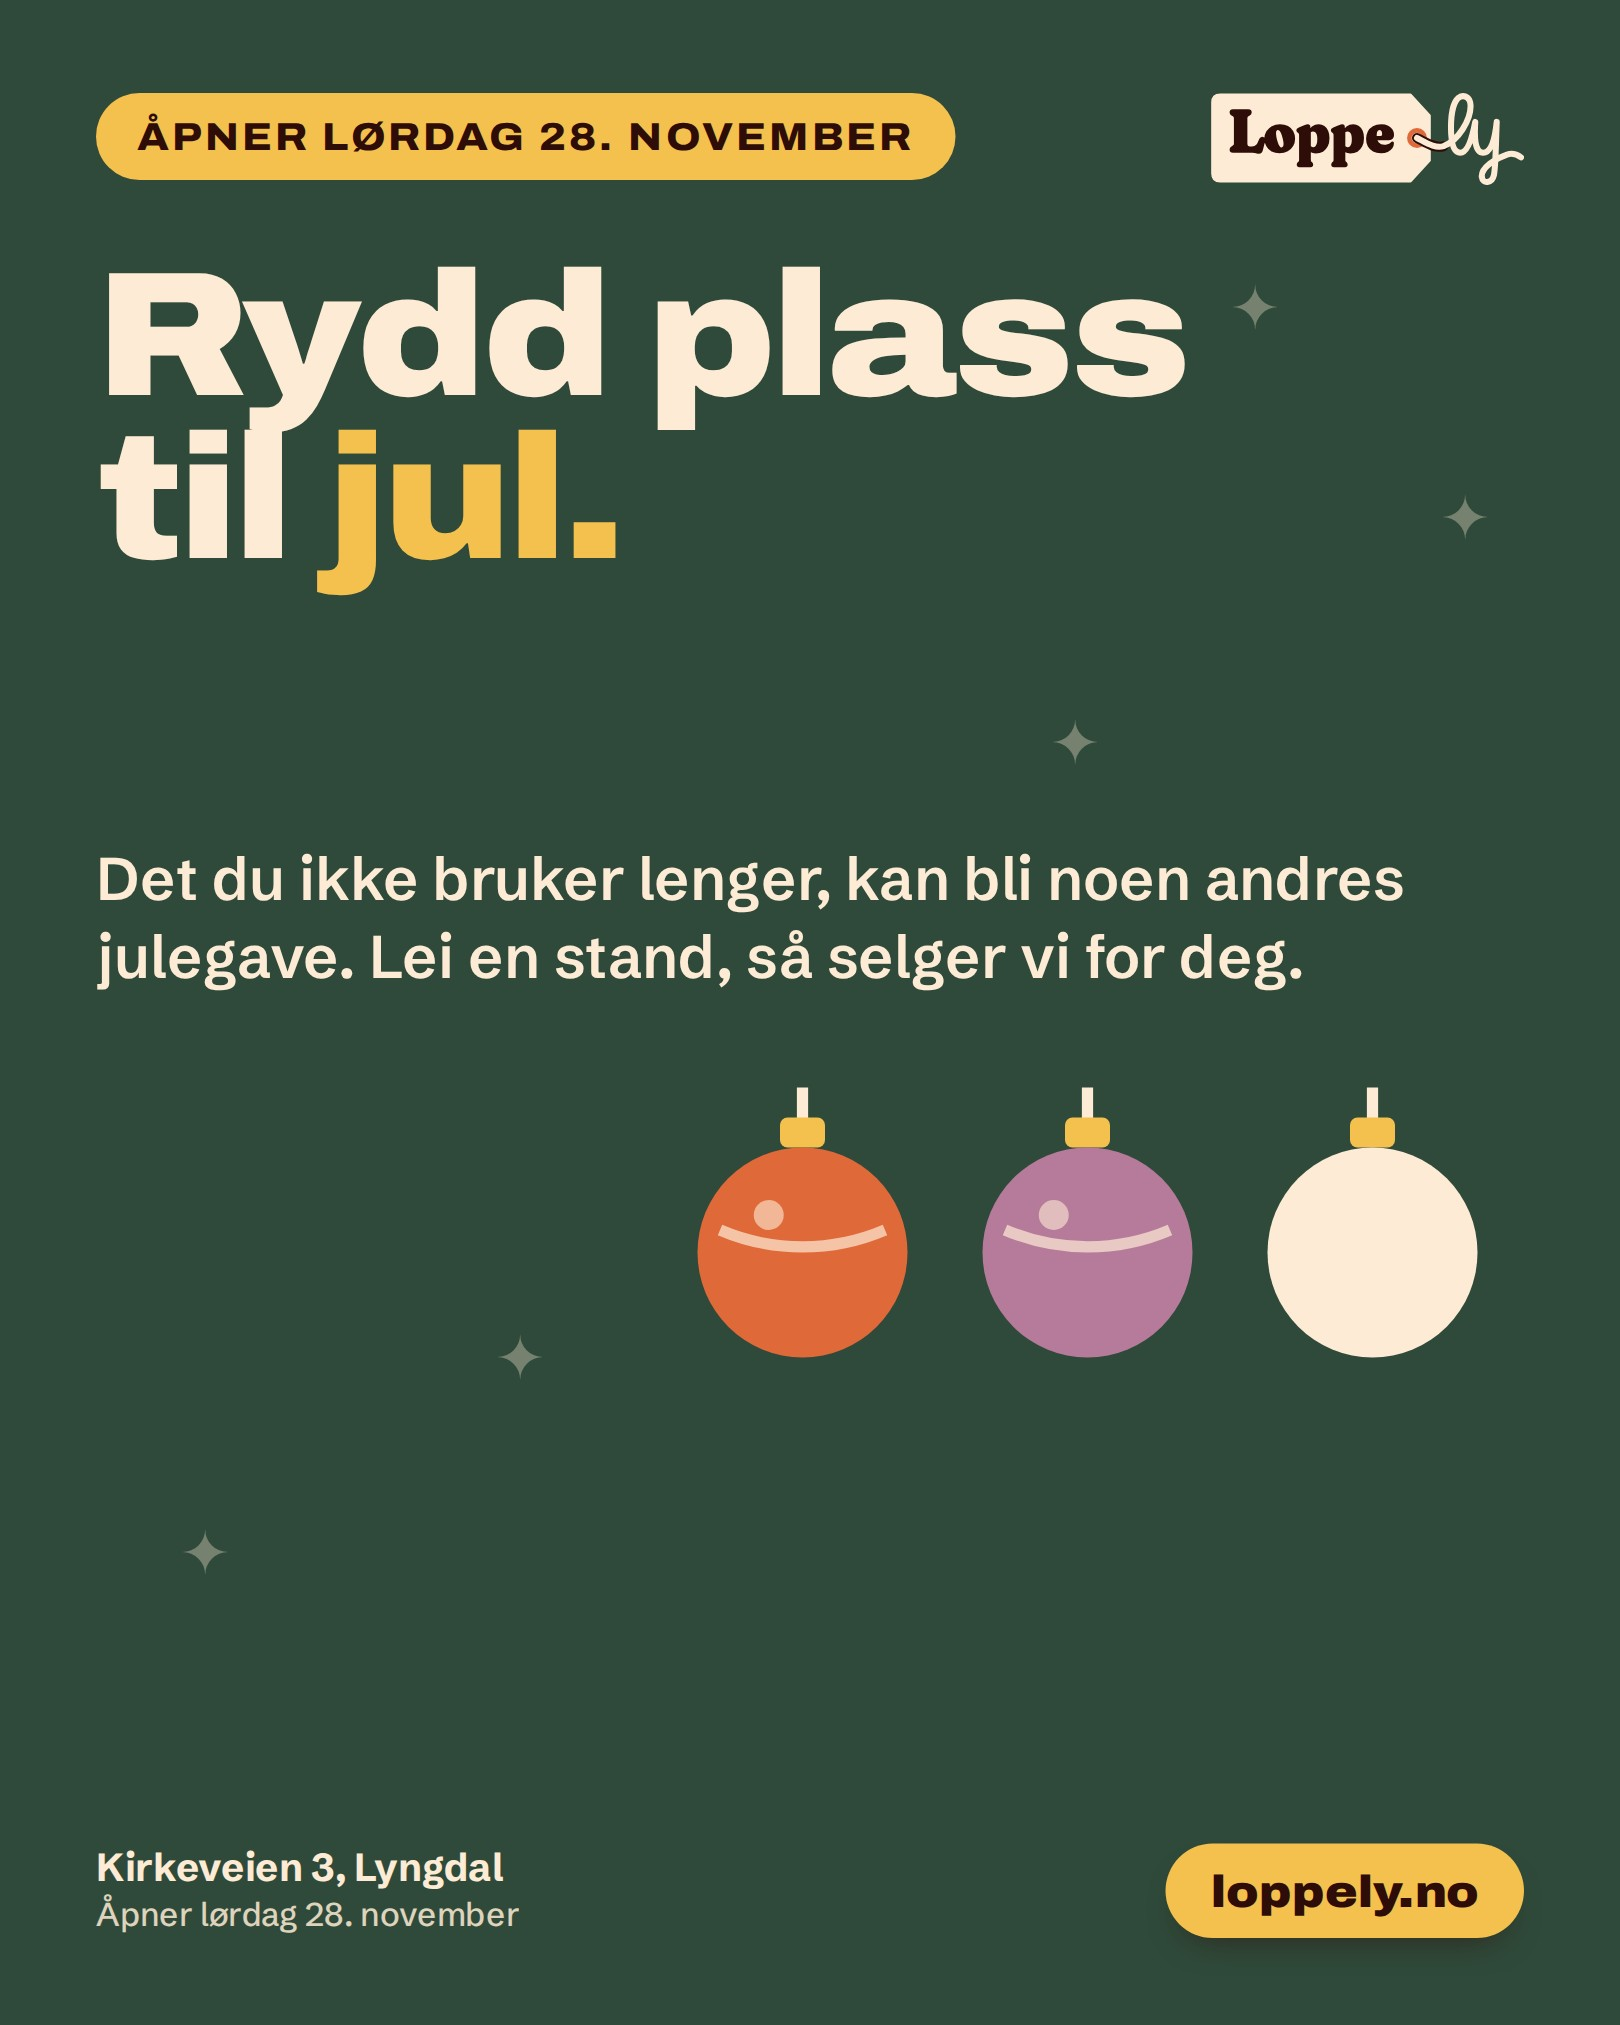
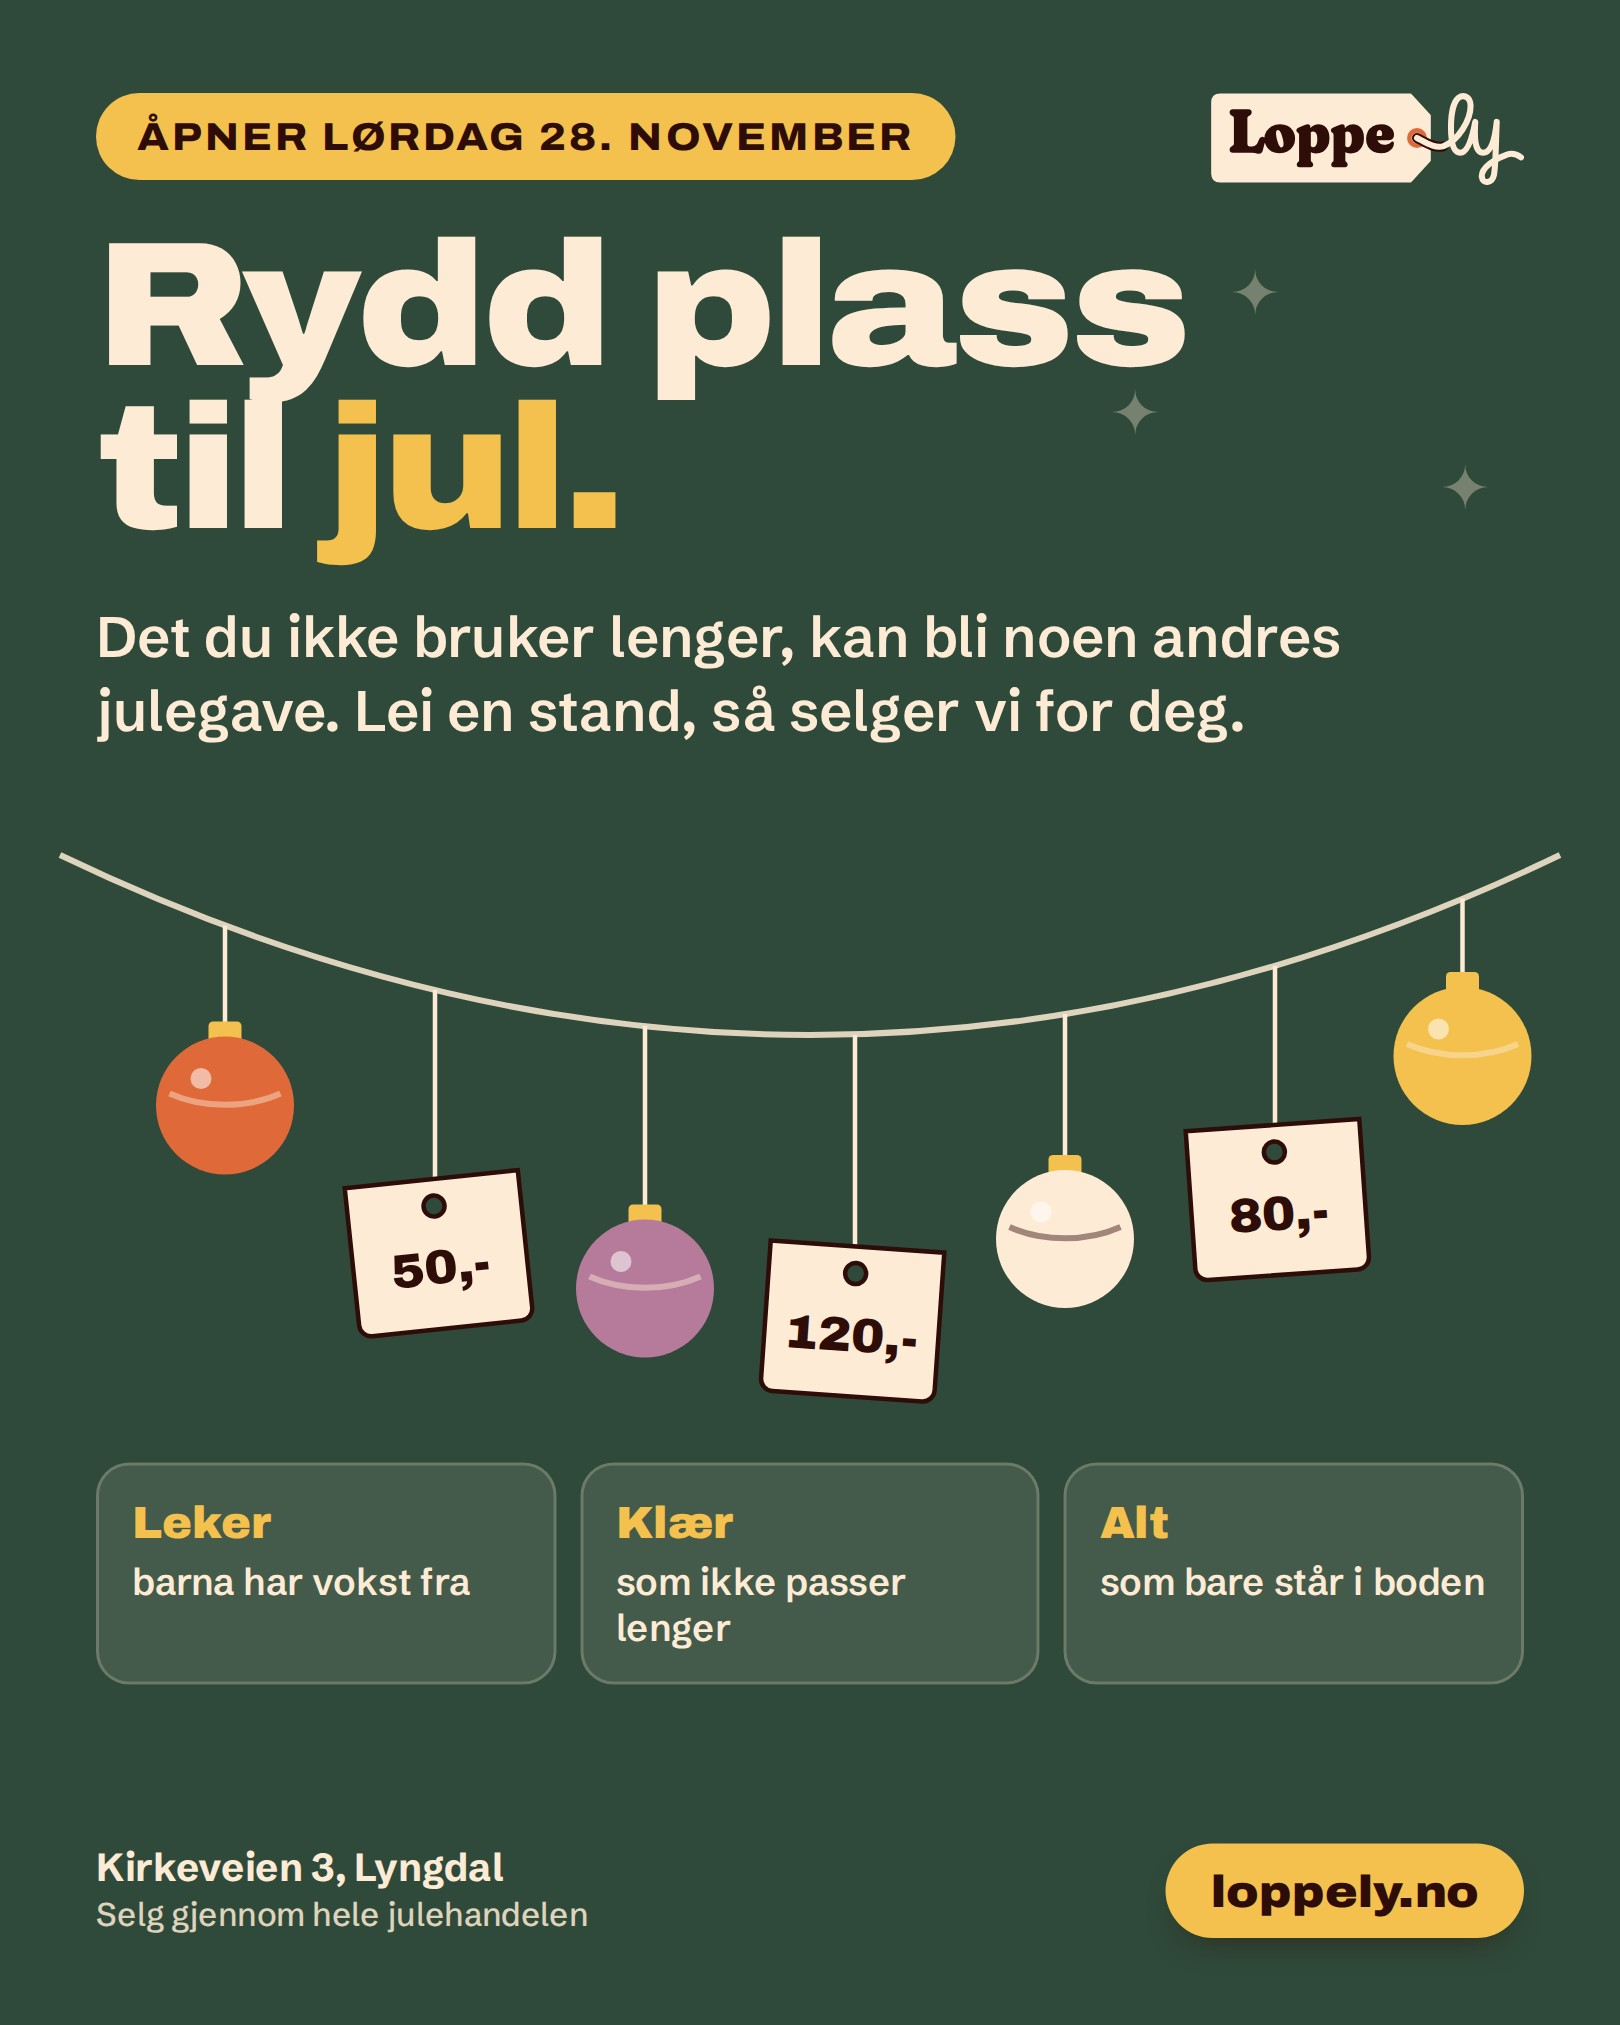
ads: fuller Christmas post (garland of baubles and price tags); cache-busting image links
Claude-Session: https://claude.ai/code/session_01RRhAi942qst8ZUNjrS2TNS

diff --git a/ads/index.html b/ads/index.html
@@ -47,7 +47,7 @@ footer a{color:inherit}
   </div>
   <div class="grid">
   <article class="card" id="01-konsept">
-    <a class="img" href="01-konsept.jpg" target="_blank"><img src="01-konsept.jpg" width="1620" height="2025" loading="lazy" alt="Konseptet på ett bilde"></a>
+    <a class="img" href="01-konsept.jpg?v=09291022" target="_blank"><img src="01-konsept.jpg?v=09291022" width="1620" height="2025" loading="lazy" alt="Konseptet på ett bilde"></a>
     <div class="body">
       <h2>Konseptet på ett bilde</h2>
       <p class="when">Første innlegg. Fest det øverst på siden.</p>
@@ -58,11 +58,11 @@ Loppely er et nytt loppesupermarked i Kirkeveien 3 i Lyngdal. Du leier en stand,
 Vi åpner lørdag 28. november.
 
 Les mer og meld interesse på loppely.no</pre>
-      <div class="btns"><button class="btn copy" type="button">Kopier tekst</button><a class="btn ghost" href="01-konsept.jpg" download>Last ned bilde</a></div>
+      <div class="btns"><button class="btn copy" type="button">Kopier tekst</button><a class="btn ghost" href="01-konsept.jpg?v=09291022" download>Last ned bilde</a></div>
     </div>
   </article>
   <article class="card" id="02-slik-funker-det">
-    <a class="img" href="02-slik-funker-det.jpg" target="_blank"><img src="02-slik-funker-det.jpg" width="1620" height="2025" loading="lazy" alt="Slik funker det"></a>
+    <a class="img" href="02-slik-funker-det.jpg?v=09291022" target="_blank"><img src="02-slik-funker-det.jpg?v=09291022" width="1620" height="2025" loading="lazy" alt="Slik funker det"></a>
     <div class="body">
       <h2>Slik funker det</h2>
       <p class="when">Uke 1. Forklarer konseptet steg for steg.</p>
@@ -77,11 +77,11 @@ Du trenger ikke stå der selv. Følg salget på «Min side».
 
 Åpner lørdag 28. november i Kirkeveien 3, Lyngdal.
 loppely.no</pre>
-      <div class="btns"><button class="btn copy" type="button">Kopier tekst</button><a class="btn ghost" href="02-slik-funker-det.jpg" download>Last ned bilde</a></div>
+      <div class="btns"><button class="btn copy" type="button">Kopier tekst</button><a class="btn ghost" href="02-slik-funker-det.jpg?v=09291022" download>Last ned bilde</a></div>
     </div>
   </article>
   <article class="card" id="03-her-er-vi">
-    <a class="img" href="03-her-er-vi.jpg" target="_blank"><img src="03-her-er-vi.jpg" width="1620" height="2025" loading="lazy" alt="Her finner du oss"></a>
+    <a class="img" href="03-her-er-vi.jpg?v=09291022" target="_blank"><img src="03-her-er-vi.jpg?v=09291022" width="1620" height="2025" loading="lazy" alt="Her finner du oss"></a>
     <div class="body">
       <h2>Her finner du oss</h2>
       <p class="when">Uke 2, og igjen uka før åpning.</p>
@@ -93,11 +93,11 @@ Loppely ligger i Kirkeveien 3, midt i Lyngdal sentrum. Gå rett ned trappen, så
 Vi åpner lørdag 28. november.
 
 Veibeskrivelse på loppely.no</pre>
-      <div class="btns"><button class="btn copy" type="button">Kopier tekst</button><a class="btn ghost" href="03-her-er-vi.jpg" download>Last ned bilde</a></div>
+      <div class="btns"><button class="btn copy" type="button">Kopier tekst</button><a class="btn ghost" href="03-her-er-vi.jpg?v=09291022" download>Last ned bilde</a></div>
     </div>
   </article>
   <article class="card" id="04-priser">
-    <a class="img" href="04-priser.jpg" target="_blank"><img src="04-priser.jpg" width="1620" height="2025" loading="lazy" alt="Priser"></a>
+    <a class="img" href="04-priser.jpg?v=09291022" target="_blank"><img src="04-priser.jpg?v=09291022" width="1620" height="2025" loading="lazy" alt="Priser"></a>
     <div class="body">
       <h2>Priser</h2>
       <p class="when">Uke 2. Svarer på «hva koster det?».</p>
@@ -110,11 +110,11 @@ VIP: fra 349 kr per uke og 29% provisjon. Du leverer varene, vi gjør resten.
 Alle priser inkluderer mva. Laveste pris gjelder ved leie i 4 uker.
 
 Se alt på loppely.no</pre>
-      <div class="btns"><button class="btn copy" type="button">Kopier tekst</button><a class="btn ghost" href="04-priser.jpg" download>Last ned bilde</a></div>
+      <div class="btns"><button class="btn copy" type="button">Kopier tekst</button><a class="btn ghost" href="04-priser.jpg?v=09291022" download>Last ned bilde</a></div>
     </div>
   </article>
   <article class="card" id="05-utbetalt">
-    <a class="img" href="05-utbetalt.jpg" target="_blank"><img src="05-utbetalt.jpg" width="1620" height="2025" loading="lazy" alt="Dette får du utbetalt"></a>
+    <a class="img" href="05-utbetalt.jpg?v=09291022" target="_blank"><img src="05-utbetalt.jpg?v=09291022" width="1620" height="2025" loading="lazy" alt="Dette får du utbetalt"></a>
     <div class="body">
       <h2>Dette får du utbetalt</h2>
       <p class="when">Uke 3. Gjør regnestykket konkret.</p>
@@ -125,11 +125,11 @@ Selger du noe for 500 kr hos Loppely, får du 405 kr. Provisjonen er 19%, og den
 Pengene betales ut til kontoen din hver måned.
 
 Regn på flere eksempler på loppely.no</pre>
-      <div class="btns"><button class="btn copy" type="button">Kopier tekst</button><a class="btn ghost" href="05-utbetalt.jpg" download>Last ned bilde</a></div>
+      <div class="btns"><button class="btn copy" type="button">Kopier tekst</button><a class="btn ghost" href="05-utbetalt.jpg?v=09291022" download>Last ned bilde</a></div>
     </div>
   </article>
   <article class="card" id="06-forste-uke-gratis">
-    <a class="img" href="06-forste-uke-gratis.jpg" target="_blank"><img src="06-forste-uke-gratis.jpg" width="1620" height="2025" loading="lazy" alt="Første uke gratis"></a>
+    <a class="img" href="06-forste-uke-gratis.jpg?v=09291022" target="_blank"><img src="06-forste-uke-gratis.jpg?v=09291022" width="1620" height="2025" loading="lazy" alt="Første uke gratis"></a>
     <div class="body">
       <h2>Første uke gratis</h2>
       <p class="when">Når dere vil ha flere på interesselista.</p>
@@ -140,11 +140,11 @@ Meld interesse på loppely.no, så får du første uke gratis når du leier stan
 Det er gratis og uforpliktende å stå på lista. Vi tar kontakt før åpning.
 
 Loppely åpner lørdag 28. november i Kirkeveien 3, Lyngdal.</pre>
-      <div class="btns"><button class="btn copy" type="button">Kopier tekst</button><a class="btn ghost" href="06-forste-uke-gratis.jpg" download>Last ned bilde</a></div>
+      <div class="btns"><button class="btn copy" type="button">Kopier tekst</button><a class="btn ghost" href="06-forste-uke-gratis.jpg?v=09291022" download>Last ned bilde</a></div>
     </div>
   </article>
   <article class="card" id="07-hva-kan-du-selge">
-    <a class="img" href="07-hva-kan-du-selge.jpg" target="_blank"><img src="07-hva-kan-du-selge.jpg" width="1620" height="2025" loading="lazy" alt="Hva kan du selge?"></a>
+    <a class="img" href="07-hva-kan-du-selge.jpg?v=09291022" target="_blank"><img src="07-hva-kan-du-selge.jpg?v=09291022" width="1620" height="2025" loading="lazy" alt="Hva kan du selge?"></a>
     <div class="body">
       <h2>Hva kan du selge?</h2>
       <p class="when">Uke 3. Får folk til å tenke på boden sin.</p>
@@ -155,11 +155,11 @@ Hos Loppely kan du selge klær, barneting, leker, bøker, kjøkkenutstyr, sports
 Større ting som sykler, barnevogner og mindre møbler selger du for 39 kr per uke.
 
 Se hva du kan selge på loppely.no</pre>
-      <div class="btns"><button class="btn copy" type="button">Kopier tekst</button><a class="btn ghost" href="07-hva-kan-du-selge.jpg" download>Last ned bilde</a></div>
+      <div class="btns"><button class="btn copy" type="button">Kopier tekst</button><a class="btn ghost" href="07-hva-kan-du-selge.jpg?v=09291022" download>Last ned bilde</a></div>
     </div>
   </article>
   <article class="card" id="08-vip">
-    <a class="img" href="08-vip.jpg" target="_blank"><img src="08-vip.jpg" width="1620" height="2025" loading="lazy" alt="VIP: Vi gjør alt"></a>
+    <a class="img" href="08-vip.jpg?v=09291022" target="_blank"><img src="08-vip.jpg?v=09291022" width="1620" height="2025" loading="lazy" alt="VIP: Vi gjør alt"></a>
     <div class="body">
       <h2>VIP: Vi gjør alt</h2>
       <p class="when">For dem som ikke har tid.</p>
@@ -170,11 +170,11 @@ Du leverer varene, så tar vi bilder, priser og registrerer dem, og gjør stande
 Fra 349 kr per uke og 29% provisjon.
 
 Les mer på loppely.no</pre>
-      <div class="btns"><button class="btn copy" type="button">Kopier tekst</button><a class="btn ghost" href="08-vip.jpg" download>Last ned bilde</a></div>
+      <div class="btns"><button class="btn copy" type="button">Kopier tekst</button><a class="btn ghost" href="08-vip.jpg?v=09291022" download>Last ned bilde</a></div>
     </div>
   </article>
   <article class="card" id="09-merk-datoen">
-    <a class="img" href="09-merk-datoen.jpg" target="_blank"><img src="09-merk-datoen.jpg" width="1620" height="2025" loading="lazy" alt="Merk datoen"></a>
+    <a class="img" href="09-merk-datoen.jpg?v=09291022" target="_blank"><img src="09-merk-datoen.jpg?v=09291022" width="1620" height="2025" loading="lazy" alt="Merk datoen"></a>
     <div class="body">
       <h2>Merk datoen</h2>
       <p class="when">2 til 3 uker før åpning, og dagen før.</p>
@@ -184,11 +184,11 @@ Lørdag 28. november kl. 10 åpner Loppely i Kirkeveien 3, Lyngdal. Et helt nytt
 
 Vil du selge? Meld interesse på loppely.no
 Vil du handle? Vi sees 28. november!</pre>
-      <div class="btns"><button class="btn copy" type="button">Kopier tekst</button><a class="btn ghost" href="09-merk-datoen.jpg" download>Last ned bilde</a></div>
+      <div class="btns"><button class="btn copy" type="button">Kopier tekst</button><a class="btn ghost" href="09-merk-datoen.jpg?v=09291022" download>Last ned bilde</a></div>
     </div>
   </article>
   <article class="card" id="10-rydd-til-jul">
-    <a class="img" href="10-rydd-til-jul.jpg" target="_blank"><img src="10-rydd-til-jul.jpg" width="1620" height="2025" loading="lazy" alt="Rydd plass til jul"></a>
+    <a class="img" href="10-rydd-til-jul.jpg?v=09291022" target="_blank"><img src="10-rydd-til-jul.jpg?v=09291022" width="1620" height="2025" loading="lazy" alt="Rydd plass til jul"></a>
     <div class="body">
       <h2>Rydd plass til jul</h2>
       <p class="when">Fra midten av november.</p>
@@ -199,11 +199,11 @@ Leker barna har vokst fra, klær som ikke passer, ting som bare står i boden. D
 Lei en stand hos Loppely, så selger vi for deg gjennom hele julehandelen. Vi åpner lørdag 28. november.
 
 loppely.no</pre>
-      <div class="btns"><button class="btn copy" type="button">Kopier tekst</button><a class="btn ghost" href="10-rydd-til-jul.jpg" download>Last ned bilde</a></div>
+      <div class="btns"><button class="btn copy" type="button">Kopier tekst</button><a class="btn ghost" href="10-rydd-til-jul.jpg?v=09291022" download>Last ned bilde</a></div>
     </div>
   </article>
   <article class="card" id="11-hvem-er-vi">
-    <a class="img" href="11-hvem-er-vi.jpg" target="_blank"><img src="11-hvem-er-vi.jpg" width="1620" height="2025" loading="lazy" alt="Hvem er vi"></a>
+    <a class="img" href="11-hvem-er-vi.jpg?v=09291022" target="_blank"><img src="11-hvem-er-vi.jpg?v=09291022" width="1620" height="2025" loading="lazy" alt="Hvem er vi"></a>
     <div class="body">
       <h2>Hvem er vi</h2>
       <p class="when">Tidlig. Folk handler med folk.</p>
@@ -214,7 +214,7 @@ Vi åpner Loppely i Lyngdal fordi vi mener gode ting fortjener et nytt hjem, og 
 Lørdag 28. november åpner vi dørene i Kirkeveien 3. Vi gleder oss til å se dere!
 
 loppely.no</pre>
-      <div class="btns"><button class="btn copy" type="button">Kopier tekst</button><a class="btn ghost" href="11-hvem-er-vi.jpg" download>Last ned bilde</a></div>
+      <div class="btns"><button class="btn copy" type="button">Kopier tekst</button><a class="btn ghost" href="11-hvem-er-vi.jpg?v=09291022" download>Last ned bilde</a></div>
     </div>
   </article>
   </div>
